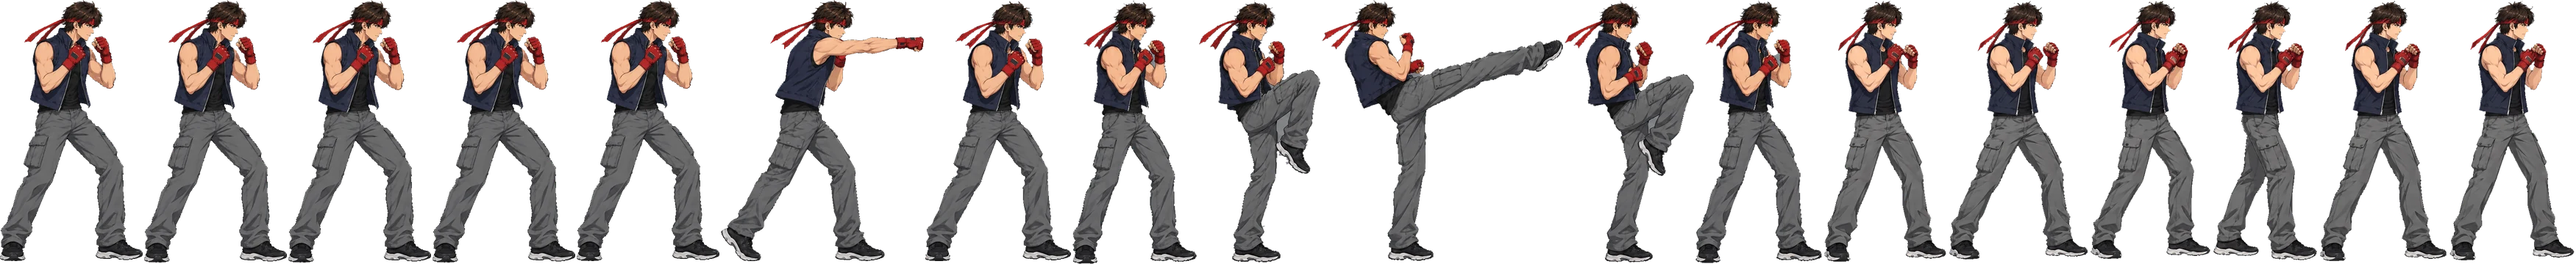
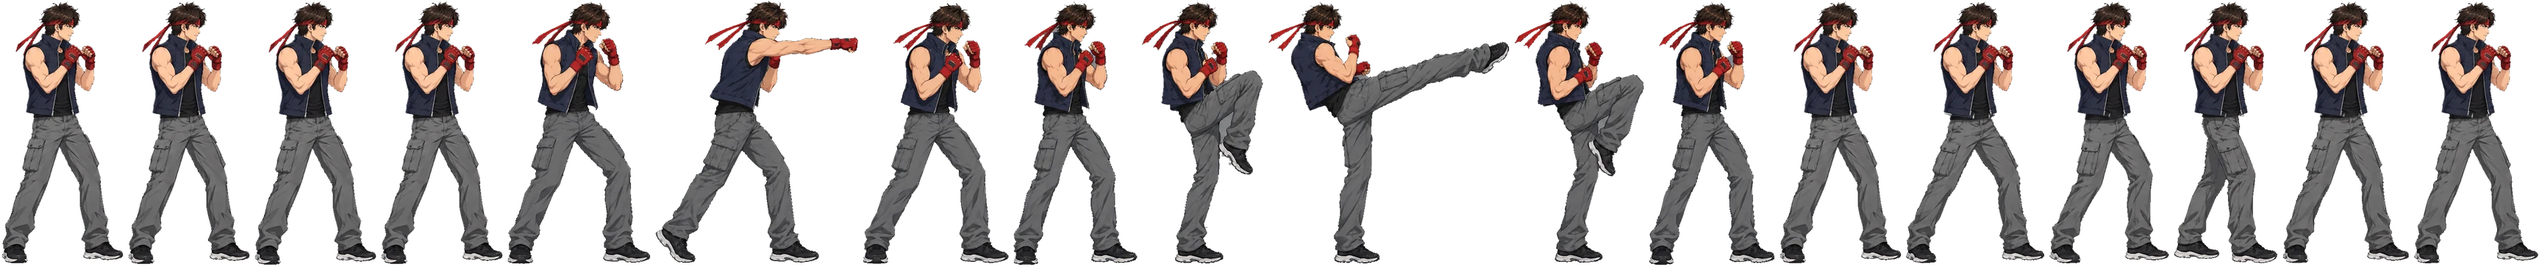
首頁：走路時上半身不再閃黑，待機和走路共用同一個上半身
AI 每格重畫的背心開口不一樣，走路時胸口的黑內衣會一閃一閃。
走路 6 格改用第 1 格的上半身，待機呼吸也改從走路第 1 格做，
開始走、停下來時不會換一張上半身；圖集改成先整格縮放再裁切，
同一組動作的每格不會差 1 px 抖動。

Claude-Session: https://claude.ai/code/session_01RpBj6GpKSTHhCxQHHpgiKf

diff --git a/index.html b/index.html
@@ -67,7 +67,7 @@ a.card:focus-visible{outline:3px solid #3B2D52;outline-offset:3px}
 <script>
 // 首頁試玩：紅巾拳士。圖集 img/hero.webp（待機、出拳、踢腿、走路），每格記錄在圖集的位置與相對腳尖的偏移
 (() => {
-const F = {"idle":[{"x":0,"y":0,"w":194,"h":356,"ox":-193,"oy":-356},{"x":196,"y":0,"w":194,"h":358,"ox":-193,"oy":-357},{"x":392,"y":0,"w":194,"h":358,"ox":-193,"oy":-358},{"x":588,"y":0,"w":194,"h":358,"ox":-193,"oy":-357}],"punch":[{"x":784,"y":0,"w":194,"h":356,"ox":-193,"oy":-356},{"x":980,"y":0,"w":276,"h":356,"ox":-213,"oy":-356},{"x":1258,"y":0,"w":198,"h":356,"ox":-192,"oy":-356}],"kick":[{"x":1458,"y":0,"w":169,"h":360,"ox":-168,"oy":-359},{"x":1629,"y":0,"w":166,"h":358,"ox":-112,"oy":-358},{"x":1797,"y":0,"w":328,"h":356,"ox":-152,"oy":-356},{"x":2127,"y":0,"w":176,"h":358,"ox":-120,"oy":-357},{"x":2305,"y":0,"w":172,"h":359,"ox":-171,"oy":-358}],"walk":[{"x":2479,"y":0,"w":168,"h":358,"ox":-166,"oy":-358},{"x":2649,"y":0,"w":190,"h":355,"ox":-184,"oy":-354},{"x":2841,"y":0,"w":165,"h":354,"ox":-171,"oy":-354},{"x":3008,"y":0,"w":143,"h":356,"ox":-160,"oy":-356},{"x":3153,"y":0,"w":174,"h":357,"ox":-176,"oy":-357},{"x":3329,"y":0,"w":171,"h":356,"ox":-170,"oy":-356}]};
+const F = {"idle":[{"x":0,"y":0,"w":170,"h":361,"ox":-167,"oy":-359},{"x":172,"y":0,"w":170,"h":362,"ox":-167,"oy":-360},{"x":344,"y":0,"w":170,"h":363,"ox":-167,"oy":-361},{"x":516,"y":0,"w":170,"h":362,"ox":-167,"oy":-360}],"punch":[{"x":688,"y":0,"w":199,"h":361,"ox":-195,"oy":-358},{"x":889,"y":0,"w":280,"h":360,"ox":-215,"oy":-357},{"x":1171,"y":0,"w":203,"h":361,"ox":-195,"oy":-358}],"kick":[{"x":1376,"y":0,"w":173,"h":363,"ox":-171,"oy":-361},{"x":1551,"y":0,"w":169,"h":361,"ox":-113,"oy":-359},{"x":1722,"y":0,"w":333,"h":361,"ox":-155,"oy":-359},{"x":2057,"y":0,"w":181,"h":360,"ox":-123,"oy":-358},{"x":2240,"y":0,"w":176,"h":363,"ox":-174,"oy":-361}],"walk":[{"x":2418,"y":0,"w":170,"h":361,"ox":-167,"oy":-359},{"x":2590,"y":0,"w":193,"h":361,"ox":-185,"oy":-359},{"x":2785,"y":0,"w":167,"h":361,"ox":-172,"oy":-359},{"x":2954,"y":0,"w":146,"h":360,"ox":-162,"oy":-359},{"x":3102,"y":0,"w":176,"h":360,"ox":-177,"oy":-359},{"x":3280,"y":0,"w":175,"h":361,"ox":-172,"oy":-359}]};
 const MS = {idle: [220, 180, 260, 180], punch: [50, 130, 110], kick: [60, 80, 170, 90, 80], walk: [110, 110, 110, 110, 110, 110]};
 const SCALE = 0.5, CENTER = 97, SPEED = 120, GROUND = 24;   // 圖集 → 畫面縮放、腳尖到身體中心、每秒移動 px、地面離底部 px
 const stage = document.getElementById('stage'), cv = document.getElementById('hero'), ctx = cv.getContext('2d');
